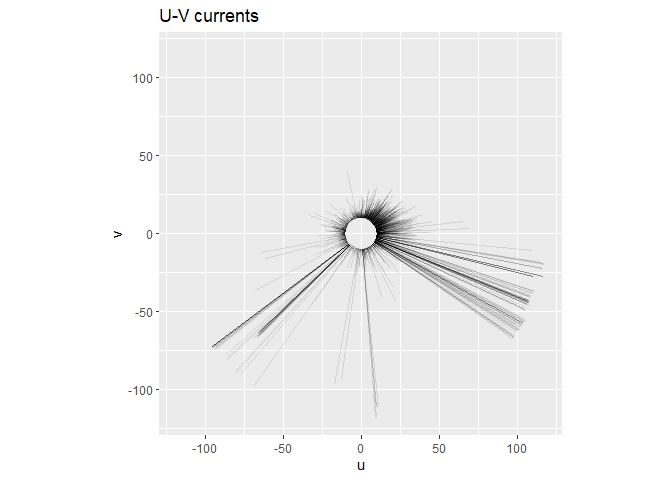
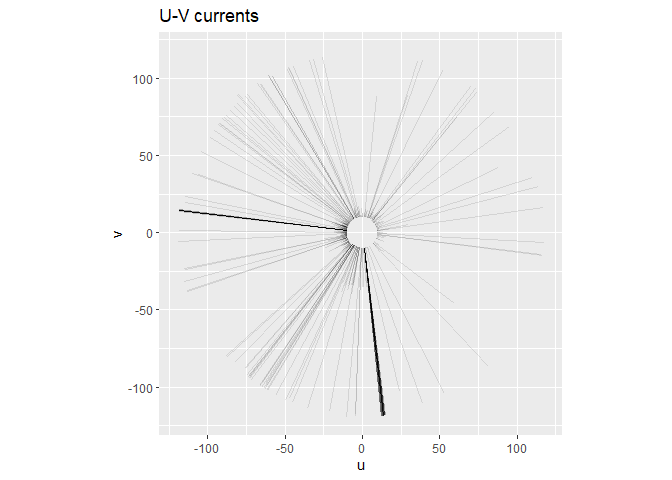
update Readme

diff --git a/README.md b/README.md
@@ -26,20 +26,20 @@ x <- read_tiltometer()
 x
 ```
 
-    ## # A tibble: 67,146 x 5
-    ##    date                speed   dir     v     u
-    ##    <dttm>              <dbl> <dbl> <dbl> <dbl>
-    ##  1 2021-05-03 12:00:00  92.2  226. -64.2 -66.2
-    ##  2 2021-05-03 12:02:00  91.6  226. -63.5 -66.0
-    ##  3 2021-05-03 12:04:00  89.4  226. -62.2 -64.3
-    ##  4 2021-05-03 12:06:00  91.8  226. -63.6 -66.2
-    ##  5 2021-05-03 12:08:00  89.7  226. -62.2 -64.6
-    ##  6 2021-05-03 12:10:00  90.1  226. -62.6 -64.8
-    ##  7 2021-05-03 12:12:00  91.6  226. -63.5 -66.1
-    ##  8 2021-05-03 12:14:00  87.4  226. -61.0 -62.6
-    ##  9 2021-05-03 12:16:00  92.4  226. -64.4 -66.2
-    ## 10 2021-05-03 12:18:00  91.0  226. -63.6 -65.1
-    ## # ... with 67,136 more rows
+    ## # A tibble: 68,598 x 5
+    ##    date                speed   dir     v      u
+    ##    <dttm>              <dbl> <dbl> <dbl>  <dbl>
+    ##  1 2021-05-14 12:00:00  117.  39.1  90.7   73.7
+    ##  2 2021-05-14 12:02:00  117.  26.3 105.    51.8
+    ##  3 2021-05-14 12:04:00  117. 258.  -23.6 -114. 
+    ##  4 2021-05-14 12:06:00  117.  17.8 111.    35.7
+    ##  5 2021-05-14 12:08:00  117. 307.   70.8  -92.7
+    ##  6 2021-05-14 12:10:00  117. 214.  -97.0  -64.9
+    ##  7 2021-05-14 12:12:00  117. 225.  -83.2  -81.9
+    ##  8 2021-05-14 12:14:00  116.  72.0  35.9  110. 
+    ##  9 2021-05-14 12:16:00  116. 221.  -87.6  -75.7
+    ## 10 2021-05-14 12:18:00  116. 221.  -87.7  -76.6
+    ## # ... with 68,588 more rows
 
 ``` r
 uv <- draw_uv(x)
